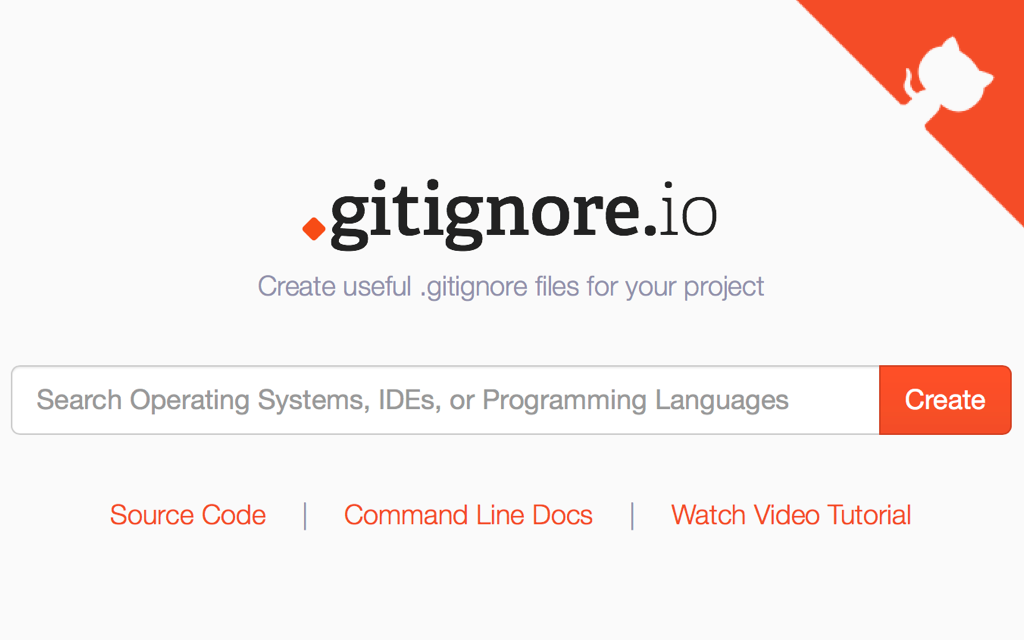
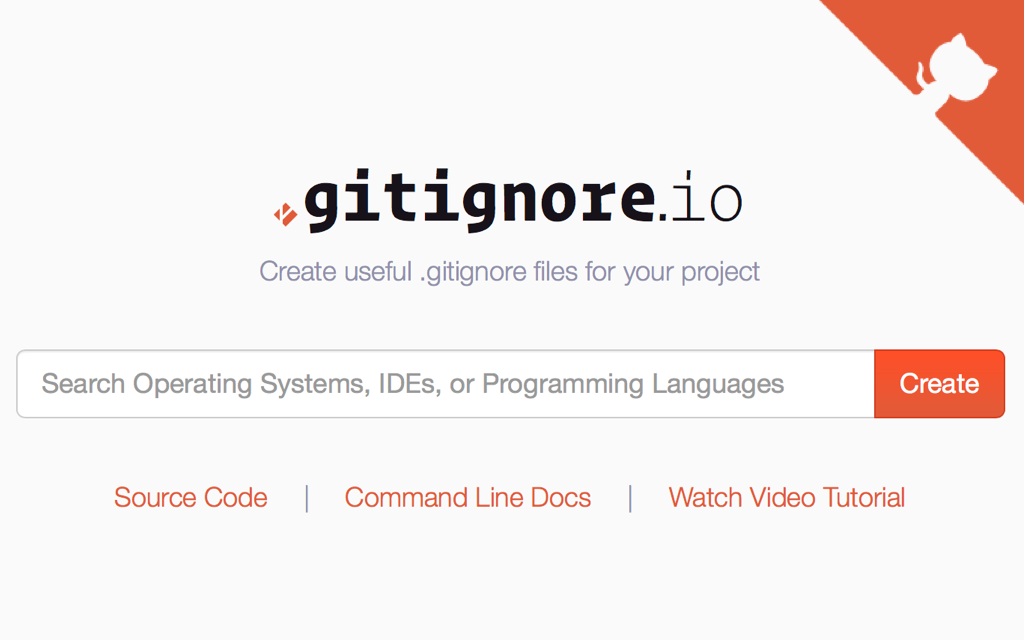
Recolor and update brand (#312)
* Fix svg colors on chrome

* Update colors and brand assets

* Update favicon

diff --git a/Public/css/theme-gitignore-style.css b/Public/css/theme-gitignore-style.css
@@ -62,7 +62,7 @@ body, td, textarea, input {
 }
 
 a {
-    color: #F44D27;
+    color: #E15B39;
     text-decoration: none;
 }
 
@@ -404,14 +404,14 @@ body.no-literate .content pre > code:hover::-webkit-scrollbar-thumb {
     font-weight: bold;
     display: inline-block;
     padding: 3px 25px;
-    border: solid 2px #F44D27;
+    border: solid 2px #E15B39;
     -webkit-border-radius: 20px;
     border-radius: 20px;
     margin-right: 15px;
 }
 
 .button, .button:visited {
-    background: #F44D27;
+    background: #E15B39;
     color: #fff;
     text-shadow: none;
 }
@@ -653,19 +653,19 @@ a.big.button {
     font-weight: bold;
     font-size: 1.1em;
     background: transparent;
-    border: solid 3px #F44D27;
+    border: solid 3px #E15B39;
     -webkit-border-radius: 30px;
     border-radius: 30px;
     font-family: "Helvetica Neue", Helvetica, Arial, sans-serif;
 }
 
 a.big.button, a.big.button:visited {
-    color: #F44D27;
+    color: #E15B39;
     text-decoration: none;
 }
 
 a.big.button:hover {
-    background: #F44D27;
+    background: #E15B39;
 }
 
 a.big.button:hover, a.big.button:hover:visited {
@@ -749,7 +749,7 @@ a.big.button:hover, a.big.button:hover:visited {
 }
 
 .menu a, .menu a:visited {
-    color: #F44D27;
+    color: #E15B39;
 }
 
 .menu a:hover {
@@ -802,7 +802,7 @@ a.big.button:hover, a.big.button:hover:visited {
     height: 3px;
     -webkit-border-radius: 2px;
     border-radius: 2px;
-    background: #F44D27;
+    background: #E15B39;
 }
 
 code .string, code .number {

diff --git a/Public/css/app.css b/Public/css/app.css
@@ -11,13 +11,13 @@
 a,
 a:focus,
 a:hover {
-  color: #F44D27;
+  color: #E15B39;
 }
 /* Custom default button */
 .btn-default,
 .btn-default:focus,
 .btn-default:hover {
-  color: #F44D27;
+  color: #E15B39;
   text-shadow: none;
   /* Prevent inheritence from `body` */
   background-color: #FAFAFA;
@@ -75,7 +75,7 @@ body {
   padding: 0 0 10px 0;
   font-size: 18px;
   font-weight: 300;
-  color: #F44D27;
+  color: #E15B39;
   /* IE8 proofing */
   border-bottom: 1px solid transparent;
 }
@@ -141,8 +141,8 @@ body {
 }
 .btn-gitignore {
   color: #fff;
-  background-image: -webkit-linear-gradient(top, #ff4f27 0, #f44d27 100%);
-  background-image: linear-gradient(to bottom, #ff4f27 0, #f44d27 100%);
+  background-image: -webkit-linear-gradient(top, #ff4f27 0, #E15B39 100%);
+  background-image: linear-gradient(to bottom, #ff4f27 0, #E15B39 100%);
   background-repeat: repeat-x;
   border: 1px solid #d23e1e;
   filter: progid:DXImageTransform.Microsoft.gradient(startColorstr='#fffbb450', endColorstr='#fffaa937', GradientType=0);
@@ -158,6 +158,6 @@ body {
   filter: progid:DXImageTransform.Microsoft.gradient(enabled=false);
 }
 .select2-results .select2-highlighted {
-  background: #F44D27;
+  background: #E15B39;
   color: #fff;
 }

diff --git a/Public/css/theme-gitignore-style.less b/Public/css/theme-gitignore-style.less
@@ -10,13 +10,13 @@
 a,
 a:focus,
 a:hover {
-  color: #F44D27;
+  color: #E15B39;
 }
 /* Custom default button */
 .btn-default,
 .btn-default:focus,
 .btn-default:hover {
-  color: #F44D27;
+  color: #E15B39;
   text-shadow: none;
   /* Prevent inheritence from `body` */
   background-color: #FAFAFA;
@@ -72,7 +72,7 @@ body {
   padding-left: 0;
   font-size: 16px;
   font-weight: bold;
-  color: #F44D27;
+  color: #E15B39;
   /* IE8 proofing */
   border-bottom: 2px solid transparent;
 }
@@ -138,8 +138,8 @@ body {
 }
 .btn-gitignore {
   color: #fff;
-  background-image: -webkit-linear-gradient(top, #ff4f27 0, #f44d27 100%);
-  background-image: linear-gradient(to bottom, #ff4f27 0, #f44d27 100%);
+  background-image: -webkit-linear-gradient(top, #ff4f27 0, #E15B39 100%);
+  background-image: linear-gradient(to bottom, #ff4f27 0, #E15B39 100%);
   background-repeat: repeat-x;
   border: 1px solid #d23e1e;
   filter: progid:DXImageTransform.Microsoft.gradient(startColorstr='#fffbb450', endColorstr='#fffaa937', GradientType=0);
@@ -155,6 +155,6 @@ body {
   filter: progid:DXImageTransform.Microsoft.gradient(enabled=false);
 }
 .select2-results .select2-highlighted {
-  background: #F44D27;
+  background: #E15B39;
   color: #fff;
 }

diff --git a/Public/css/app.less b/Public/css/app.less
@@ -139,8 +139,8 @@ body {
 }
 .btn-gitignore {
     color: #fff;
-    background-image: -webkit-linear-gradient(top, #ff4f27 0, #f44d27 100%);
-    background-image: linear-gradient(to bottom, #ff4f27 0, #f44d27 100%);
+    background-image: -webkit-linear-gradient(top, #ff4f27 0, #E15B39 100%);
+    background-image: linear-gradient(to bottom, #ff4f27 0, #E15B39 100%);
     background-repeat: repeat-x;
     border: 1px solid #d23e1e;
     filter: progid:DXImageTransform.Microsoft.gradient(startColorstr= '#fffbb450',endColorstr='#fffaa937',GradientType=0);
